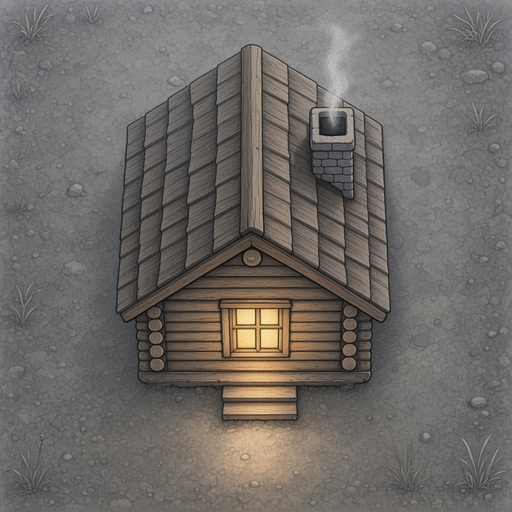
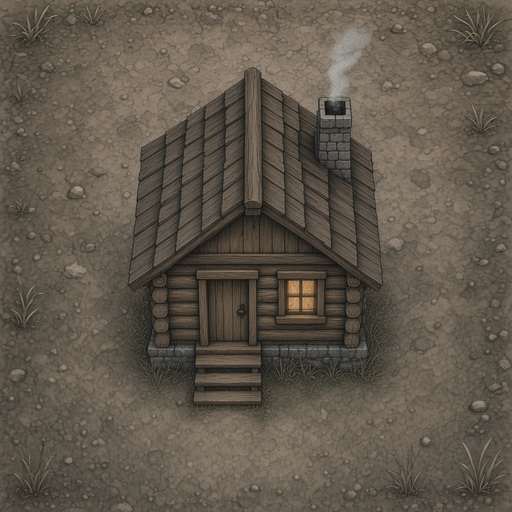
Repaint Storybook cabins with a front door and lantern window.
The earlier tiles had steps leading to a window and no door. All five
weather variants now share the same cabin: a wooden door at the top of
the steps and a lantern-lit window beside it. Style and yard ground were
taken from the Storybook soil and wet-soil tiles so the cabin matches
the neighbouring plots. The no-door originals are kept under
sources/originals.

diff --git a/static/packs/storybook/sources/prompts.md b/static/packs/storybook/sources/prompts.md
@@ -67,3 +67,8 @@ Same style and layout as the matching non-snow ground tiles, no footprints, no p
 ## Weed placement (later pass)
 
 The first `weed` and `weedy` overlays were painted in the centre of the cell, so they disappeared under crop sprites. They were recomposed from those originals (no new painting): a slightly darker, more saturated cut-out of the same plants, placed in the lower-left corner for a single weed, and in the lower-left and lower-right corners for a weedy plot, leaving the crop centre clear. The earlier centred keyed PNGs are kept as `sources/originals/weed_centered.png` and `weedy_centered.png`.
+
+## Cabin door pass (later)
+
+The first cabin tiles had wooden steps leading to a four-pane lantern window and no front door. All five weather variants were repainted so a clearly visible wooden front door sits at the top of the steps, with the lantern-lit window beside it. The same cabin is used in clear, cloud, rain, storm, and snow. Style and yard ground were referenced from the Storybook `soil.png` and `soil_wet.png` tiles so the cabin matches neighbouring plots. The earlier no-door 1024 sources and 512 pack tiles are kept as `sources/originals/*_no_door.jpg` and `*_no_door.png`.
+
